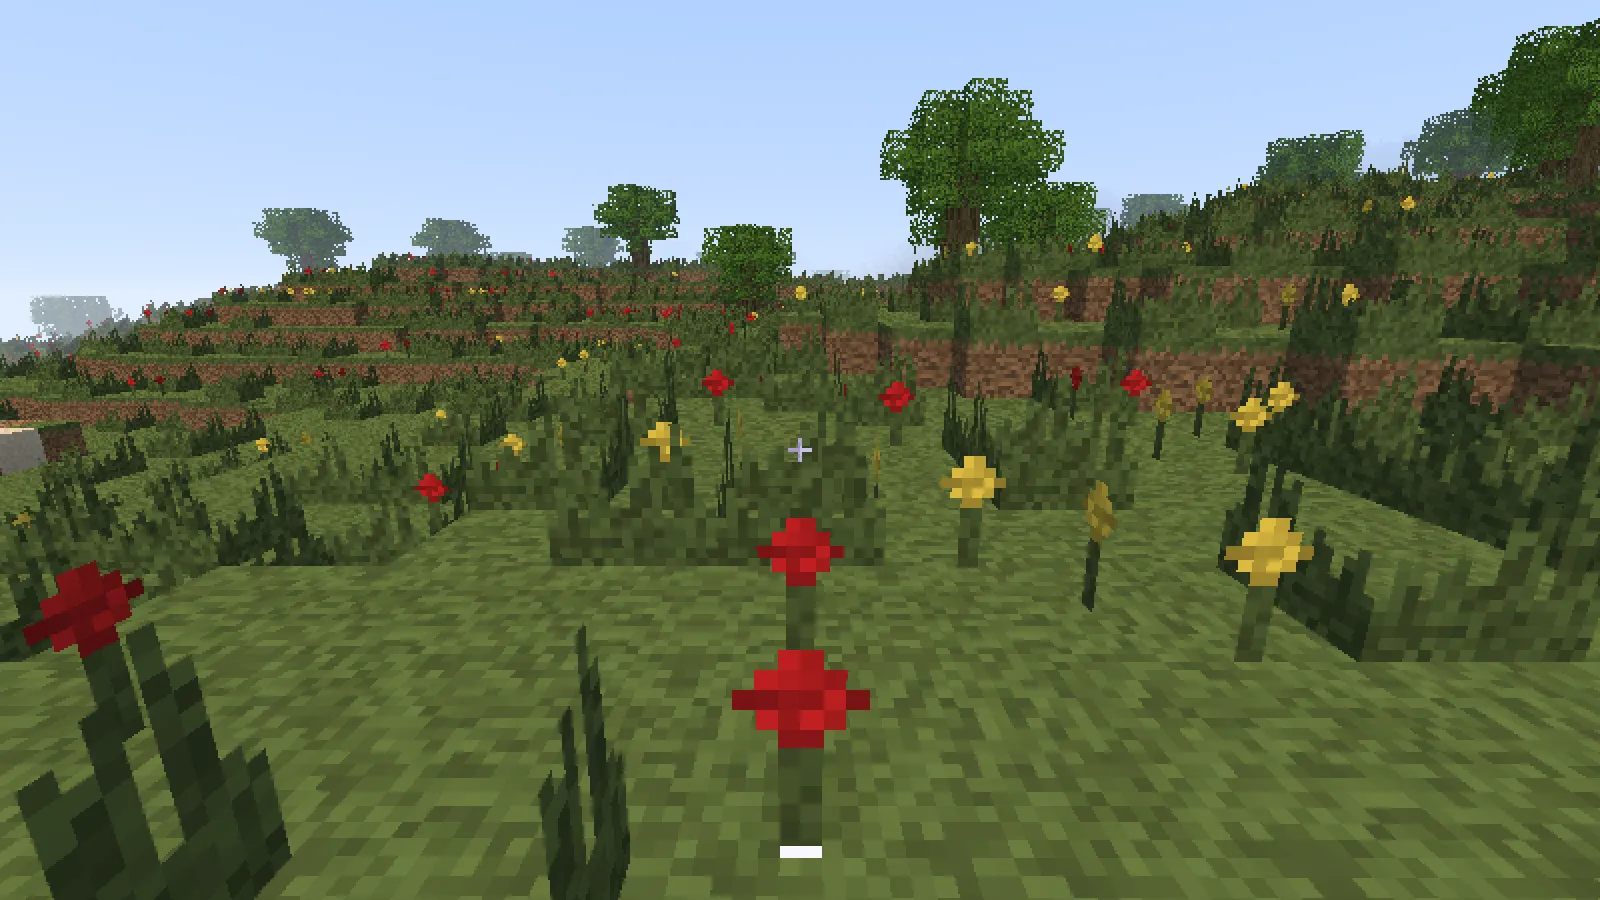
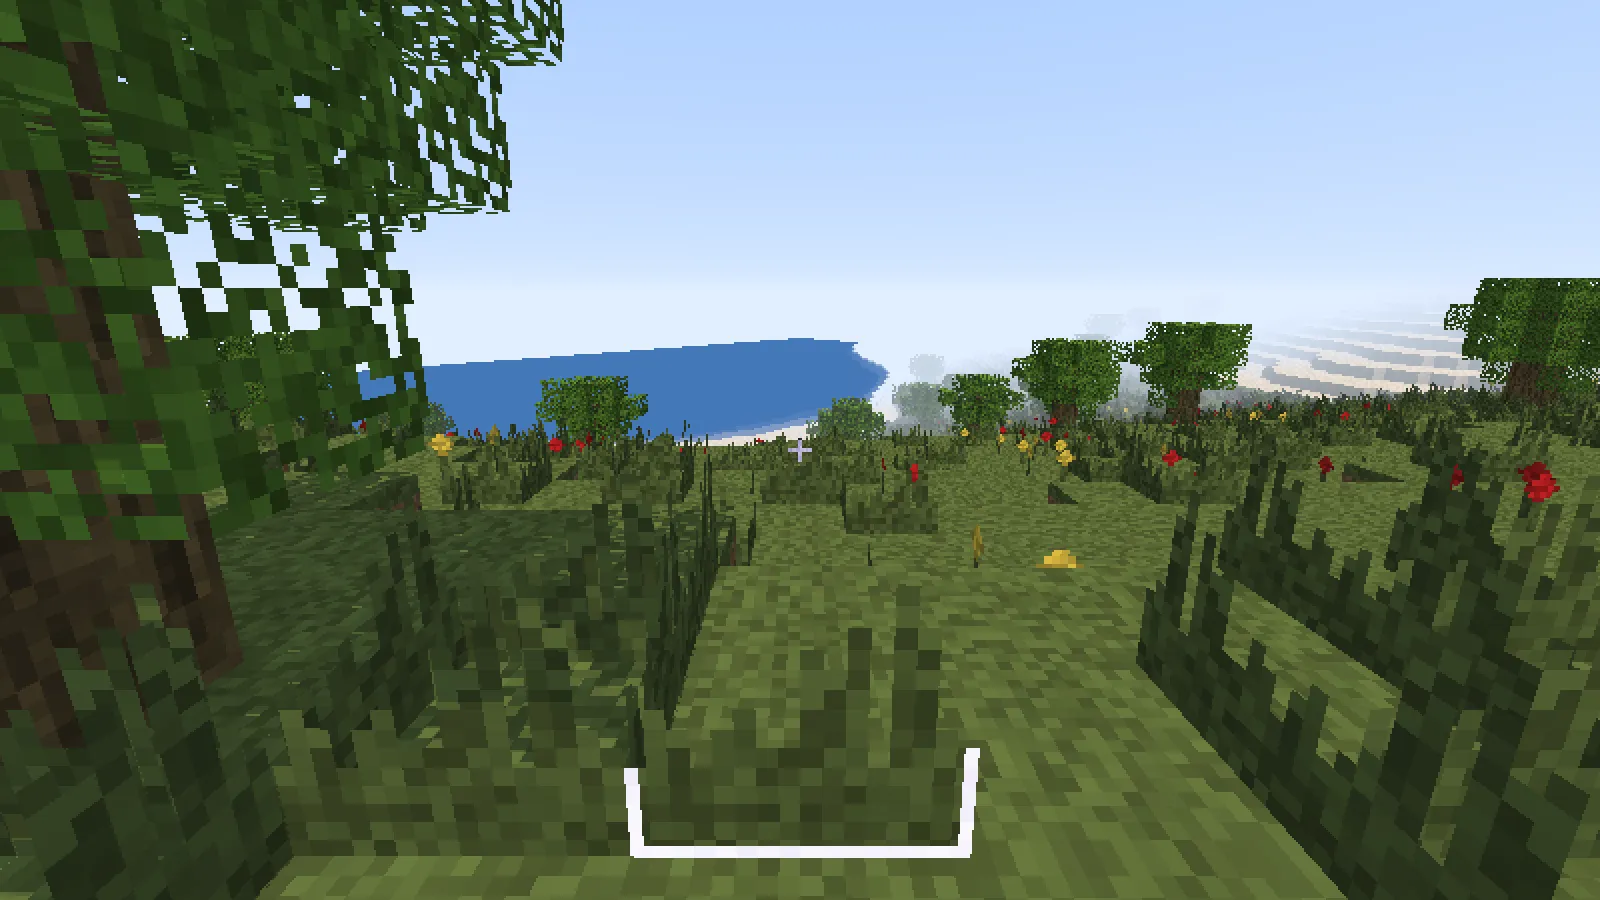
chore(screenshots): Re-aim the gallery on the larger world.

diff --git a/scripts/screenshots.ts b/scripts/screenshots.ts
@@ -1,6 +1,7 @@
 /** Builds the dev page and writes `screenshots/<name>.webp` for every view of the README gallery, or only the names given as arguments. */
 import { build } from './build.ts';
 import { HOUSE_NEAR, overview, runBot } from './bot.ts';
+import { LAYER, SIZE } from '../src/world.ts';
 import { Page } from './webview.ts';
 
 const root = `${import.meta.dir}/..`;
@@ -8,24 +9,24 @@ const root = `${import.meta.dir}/..`;
 /** Places blocks 4 to 12 on a 3x3 patch of flat grass found within 30 of (x, z) with `bot.place`, after breaking every plant between the camera and the patch, farthest block first so each ray reaches bare ground. */
 const blocks = (x: number, z: number, yaw: number) =>
 	`(async()=>{const top=bot.top.bind(bot);let cx=${x | 0},cz=${z | 0};
-	for(let o=0;o<3600;o++){const px=${x | 0}-30+o%60,pz=${z | 0}-30+(o/60|0);let ok=1;for(let a=-2;a<=2;a++)for(let b=-2;b<=2;b++){const y=top(px+a,pz+b);if(dbg.V[px+a+(pz+b)*512+y*262144]!=4||y!=top(px,pz))ok=0}for(let t=3;t<=6;t++)if(top(Math.round(px-Math.sin(${yaw})*t),Math.round(pz-Math.cos(${yaw})*t))!=top(px,pz))ok=0;if(ok){cx=px;cz=pz;break}}
+	for(let o=0;o<3600;o++){const px=${x | 0}-30+o%60,pz=${z | 0}-30+(o/60|0);let ok=1;for(let a=-2;a<=2;a++)for(let b=-2;b<=2;b++){const y=top(px+a,pz+b);if(dbg.V[px+a+(pz+b)*${SIZE}+y*${LAYER}]!=4||y!=top(px,pz))ok=0}for(let t=3;t<=6;t++)if(top(Math.round(px-Math.sin(${yaw})*t),Math.round(pz-Math.cos(${yaw})*t))!=top(px,pz))ok=0;if(ok){cx=px;cz=pz;break}}
 	const sx=cx+.5-Math.sin(${yaw})*4.5,sz=cz+.5-Math.cos(${yaw})*4.5;bot.at(sx,sz,${yaw},-.3);
 	const dist=(a,b)=>Math.hypot(a[0]-dbg.P[0],a[1]-dbg.P[2])-Math.hypot(b[0]-dbg.P[0],b[1]-dbg.P[2]);
 	const near=[];for(let a=Math.min(sx,cx)-2|0;a<=Math.max(sx,cx)+2;a++)for(let b=Math.min(sz,cz)-2|0;b<=Math.max(sz,cz)+2;b++)near.push([a,b]);
-	for(const[a,b]of near.sort(dist)){const y=top(a,b);if(dbg.V[a+b*512+(y+1)*262144])await bot.break(a,y+1,b)}
+	for(const[a,b]of near.sort(dist)){const y=top(a,b);if(dbg.V[a+b*${SIZE}+(y+1)*${LAYER}])await bot.break(a,y+1,b)}
 	const cells=[];for(let i=0;i<9;i++)cells.push([cx-1+i%3,cz-1+(i/3|0),i+4]);
 	for(const[gx,gz,id]of cells.sort((a,b)=>dist(b,a)))await bot.place(gx,top(gx,gz)+1,gz,id);
 	bot.at(sx,sz,${yaw},-.3)})()`;
 
 /** Views as page statements: `bot.at(x, z, yaw, pitch, time)` stands on the ground, `bot.fly(x, y, z, yaw, pitch)` hangs in the air (sun clock: noon 121, sunset 271, night 421). */
 const views: { eval: string; name: string }[] = [
-	{ eval: 'bot.at(280.5, 280.5, -2.4, -.25)', name: 'hero' },
-	{ eval: 'bot.fly(190.5, 70, 150.5, -.8, -.3)', name: 'mountains' },
-	{ eval: 'bot.at(280.5, 280.5, -1.2, -.1, 255)', name: 'sunset' },
-	{ eval: 'bot.at(280.5, 280.5, -2.4, .15, 300)', name: 'night' },
-	{ eval: blocks(348.5, 32.5, .8), name: 'blocks' },
-	{ eval: 'bot.at(296.5, 18.5, 3.14, -.25)', name: 'flowers' },
-	{ eval: 'bot.at(436.5, 48.5, 3, -.12)', name: 'underwater' },
+	{ eval: 'bot.at(395.5, 525.5, -1.57, .15)', name: 'hero' },
+	{ eval: 'bot.fly(380.5, 105, 520.5, -1.57, .05)', name: 'mountains' },
+	{ eval: 'bot.at(645.5, 560.5, -1.2, .02, 262)', name: 'sunset' },
+	{ eval: 'bot.at(645.5, 560.5, -2.0, .2, 300)', name: 'night' },
+	{ eval: blocks(500.5, 660.5, .8), name: 'blocks' },
+	{ eval: 'bot.at(480.5, 700.5, 3.14, -.25)', name: 'flowers' },
+	{ eval: 'bot.at(520.5, 470.5, 3.14, -.05)', name: 'underwater' },
 ];
 
 const only = Bun.argv.slice(2);
@@ -44,7 +45,7 @@ for (const { eval: code, name } of views.filter(v => wanted(v.name))) {
 	await write(page, name);
 }
 if (wanted('house')) {
-	await page.run('bot.at(280.5, 280.5, 0, 0)');
+	await page.run('bot.at(434.5, 511.5, 0, 0)');
 	const result = await runBot(page, 'house', HOUSE_NEAR);
 	if (result.check.missing.length || result.error || result.failures.length) throw new Error(`the house build failed: ${result.error ?? result.failures.join(', ') ?? result.check.missing}`);
 	const { pitch, x, y, yaw, z } = overview(result.origin!);
